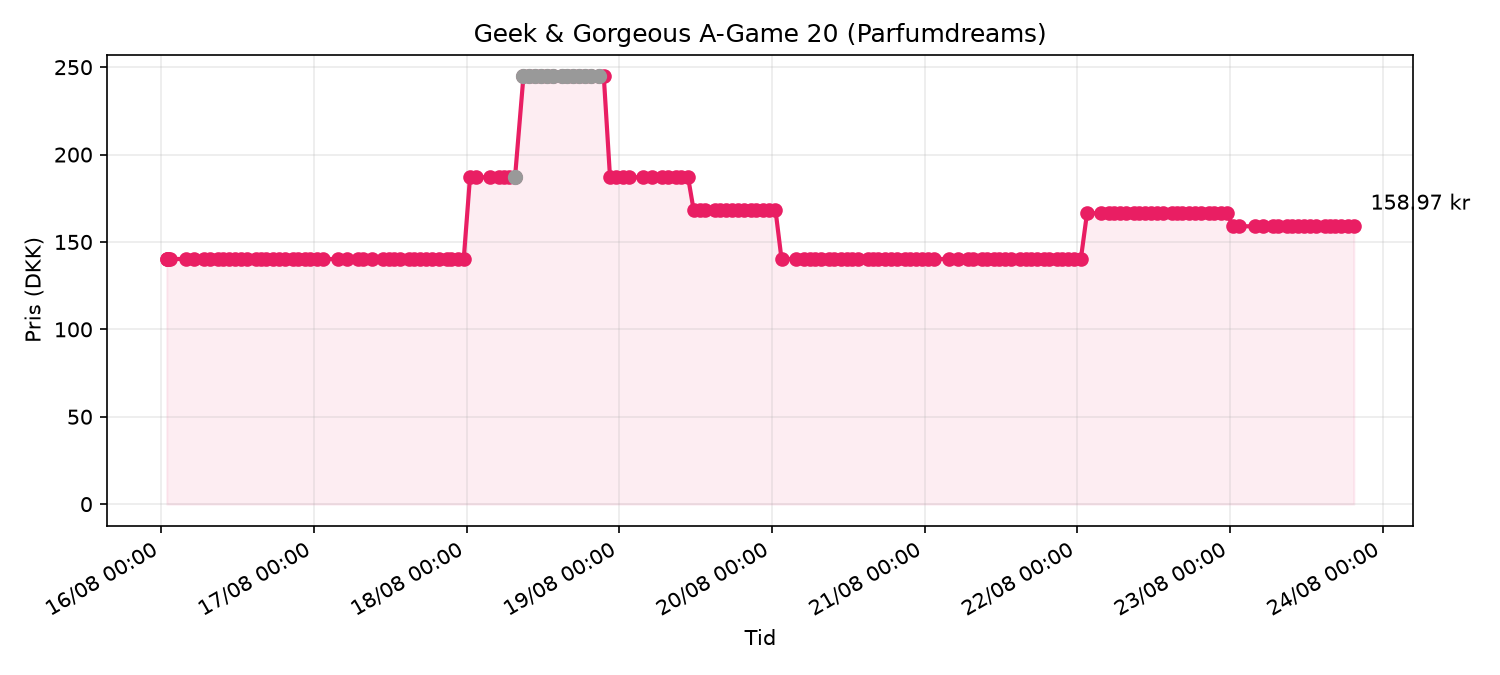
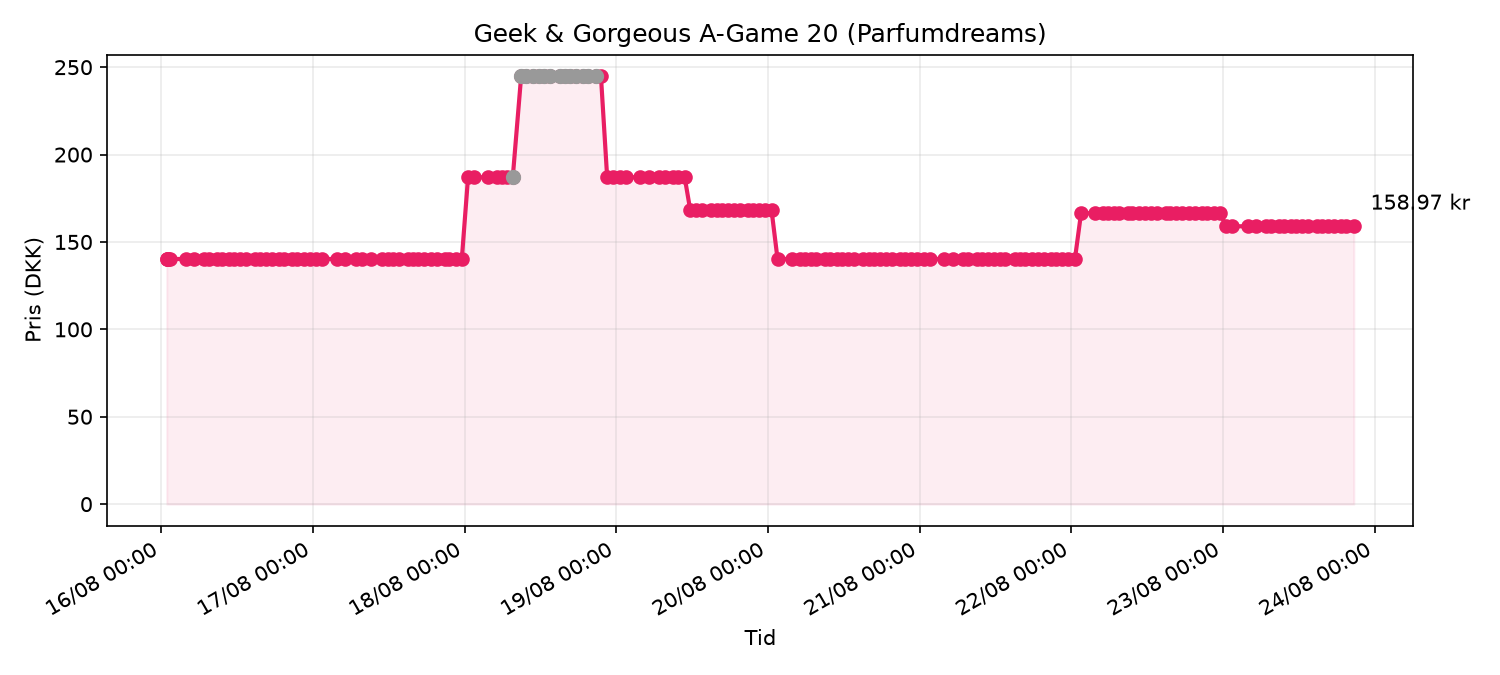
deploy: 6a6a79b94271a320cd7811ef163fc7ed98bd29ab

diff --git a/price_chart.html b/price_chart.html
@@ -13,7 +13,7 @@
 </head>
 <body>
   <h1>Geek & Gorgeous A-Game 20 (Parfumdreams)</h1>
-  <p class="meta">Senest tjekket: 23/08/2026 19:27 · Pris: <strong>158.97 kr</strong> · på lager</p>
+  <p class="meta">Senest tjekket: 23/08/2026 20:40 · Pris: <strong>158.97 kr</strong> · på lager</p>
   
   <p><a href="https://www.parfumdreams.dk/Geek-Gorgeous/Samlinger/101-aktive-stoffer/A-Game-20-Serum/index_137083.aspx?variation=221879">Åbn produkt på Parfumdreams</a></p>
   <img src="price_chart.png" alt="Prisgraf">
